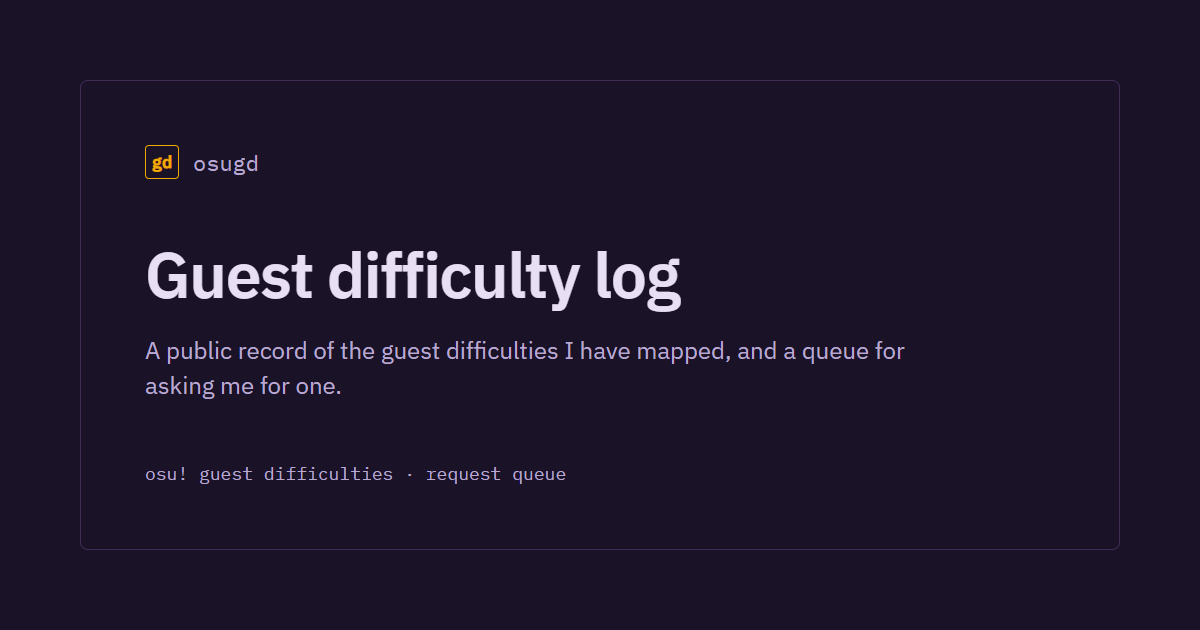
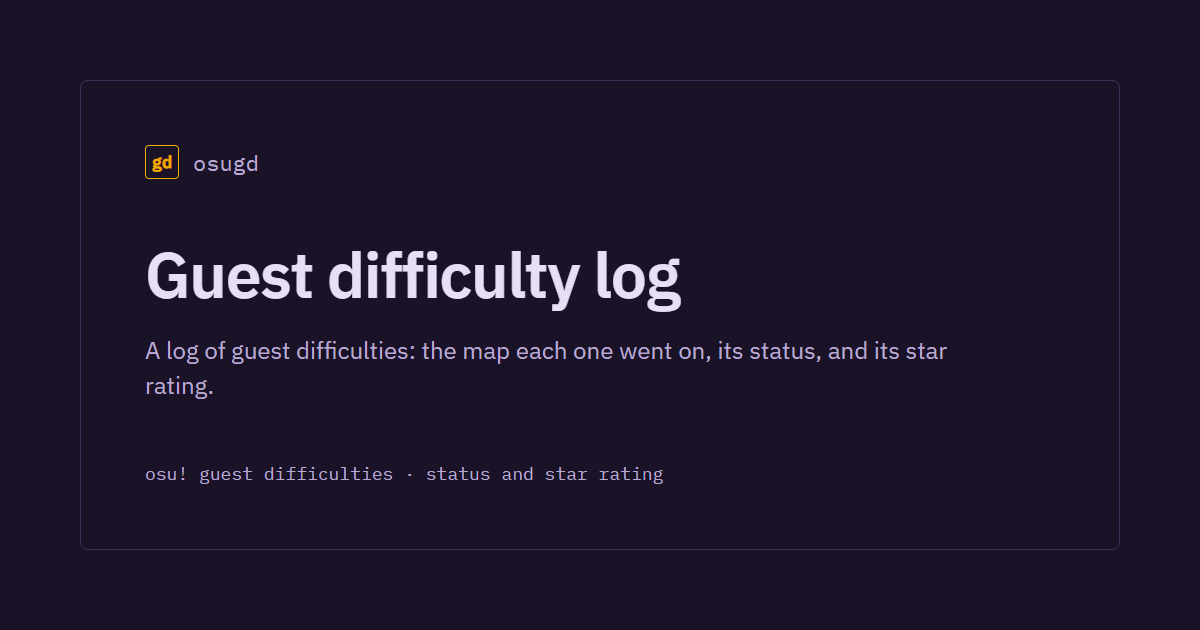
og card: description matches the landing copy

Changed region(s): [[0.1233, 0.5429, 0.8017, 0.573], [0.37, 0.7238, 0.555, 0.7841], [0.1233, 0.6032, 0.2775, 0.6333]]

diff --git a/web/index.html b/web/index.html
@@ -8,14 +8,14 @@
     <meta name="theme-color" content="#1a1226" />
     <meta
       name="description"
-      content="A public record of the guest difficulties I have mapped, and a queue for asking me for one."
+      content="A log of guest difficulties: the map each one went on, its status, and its star rating."
     />
     <meta property="og:type" content="website" />
     <meta property="og:site_name" content="osugd" />
     <meta property="og:title" content="osugd · guest difficulty log" />
     <meta
       property="og:description"
-      content="A public record of the guest difficulties I have mapped, and a queue for asking me for one."
+      content="A log of guest difficulties: the map each one went on, its status, and its star rating."
     />
     <meta property="og:image" content="/og.png" />
     <meta property="og:image:width" content="1200" />
@@ -24,7 +24,7 @@
     <meta name="twitter:title" content="osugd · guest difficulty log" />
     <meta
       name="twitter:description"
-      content="A public record of the guest difficulties I have mapped, and a queue for asking me for one."
+      content="A log of guest difficulties: the map each one went on, its status, and its star rating."
     />
     <meta name="twitter:image" content="/og.png" />
     <link rel="preconnect" href="https://fonts.googleapis.com" />

diff --git a/og-card.html b/og-card.html
@@ -76,9 +76,9 @@
       <span class="mark"><span class="dot">gd</span>osugd</span>
       <div>
         <h1>Guest difficulty log</h1>
-        <p>A public record of the guest difficulties I have mapped, and a queue for asking me for one.</p>
+        <p>A log of guest difficulties: the map each one went on, its status, and its star rating.</p>
       </div>
-      <span class="foot">osu! guest difficulties · request queue</span>
+      <span class="foot">osu! guest difficulties · status and star rating</span>
     </div>
   </body>
 </html>
